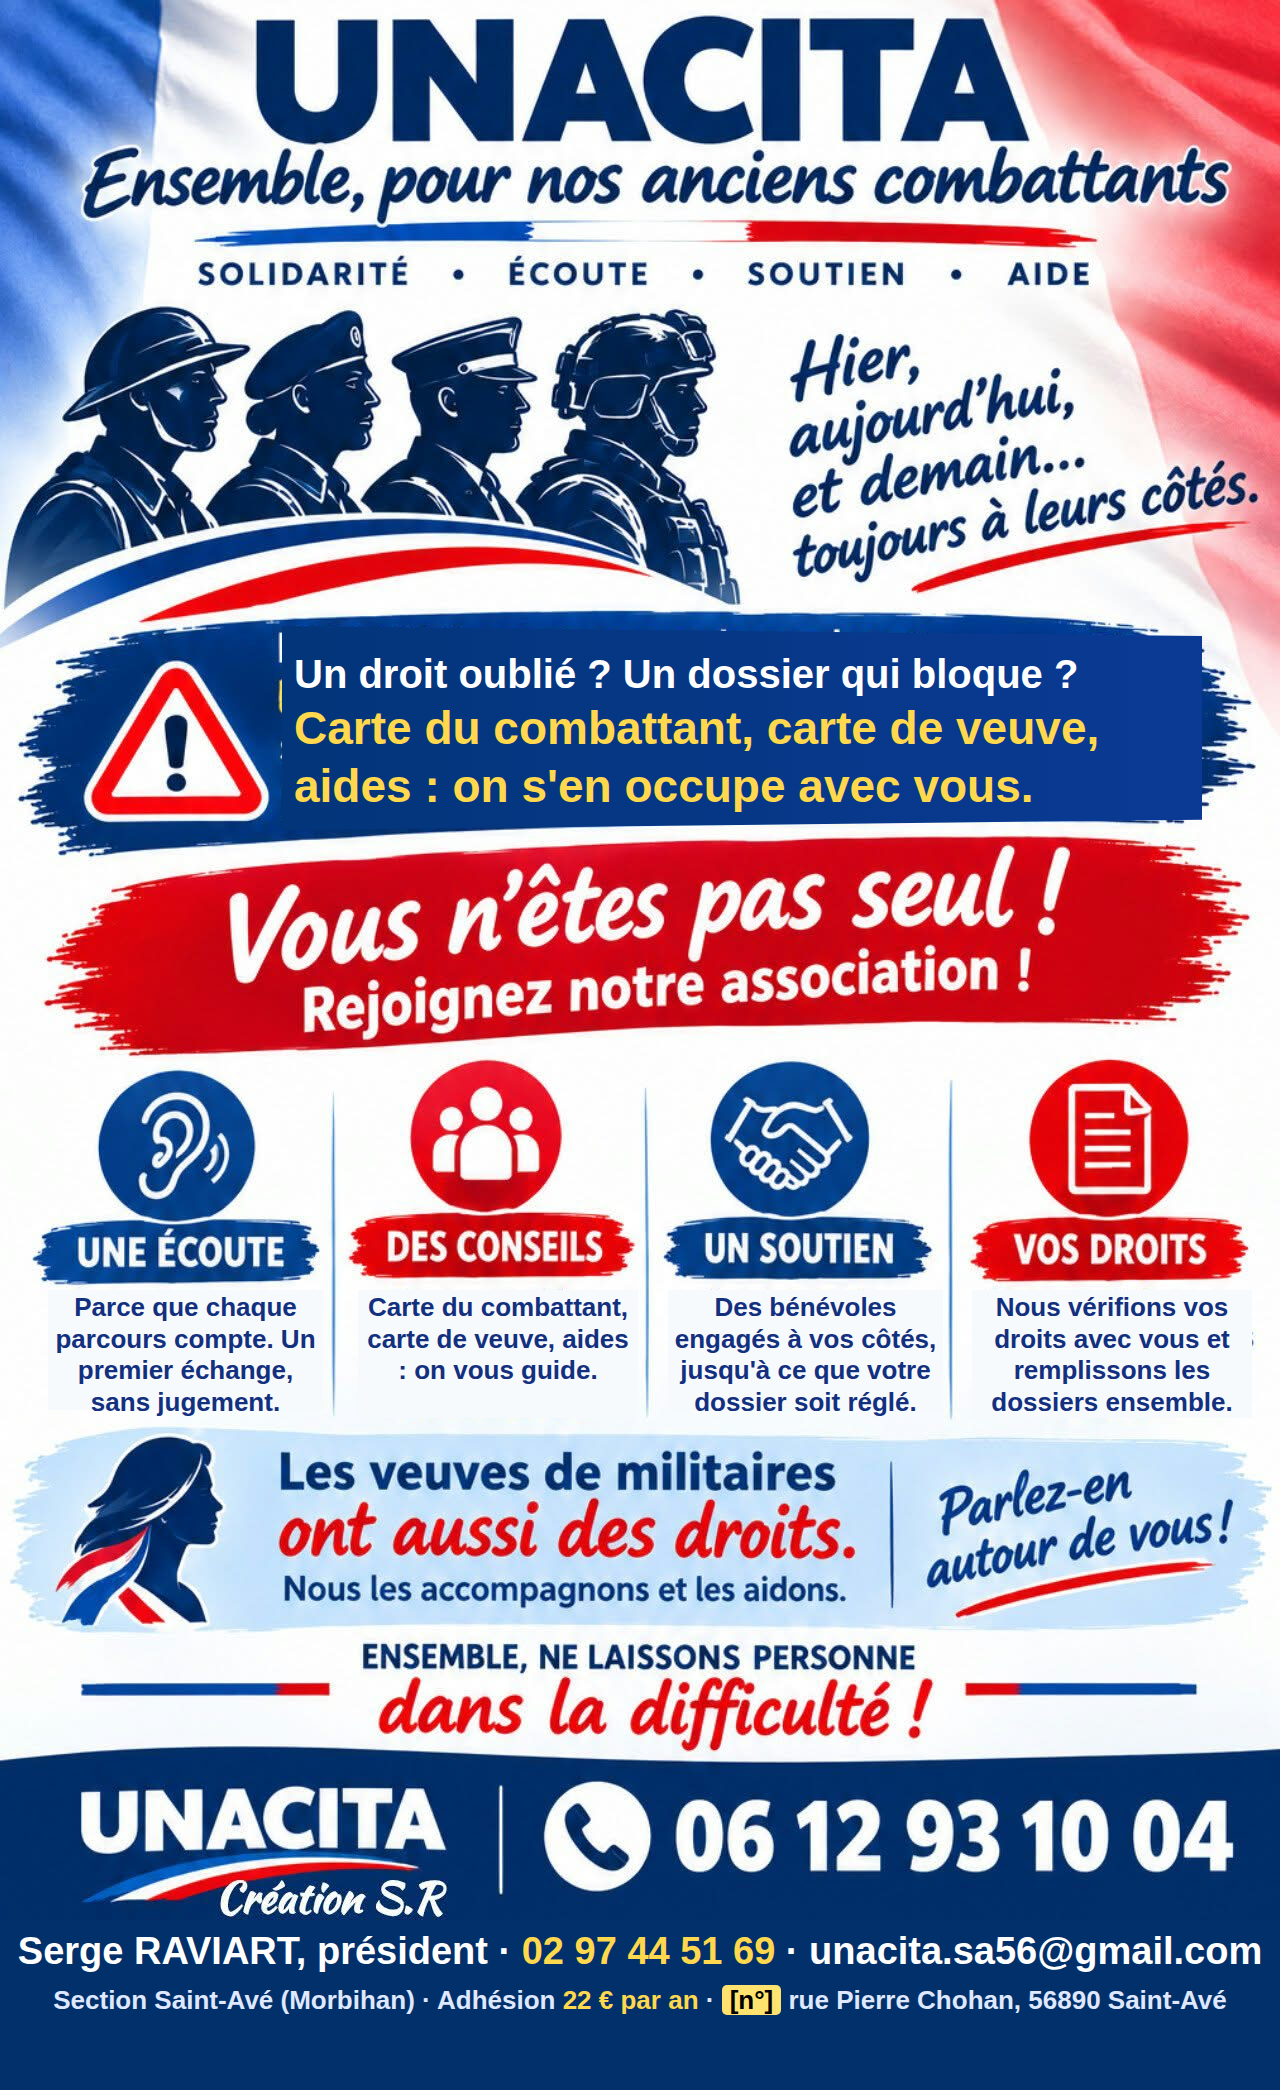
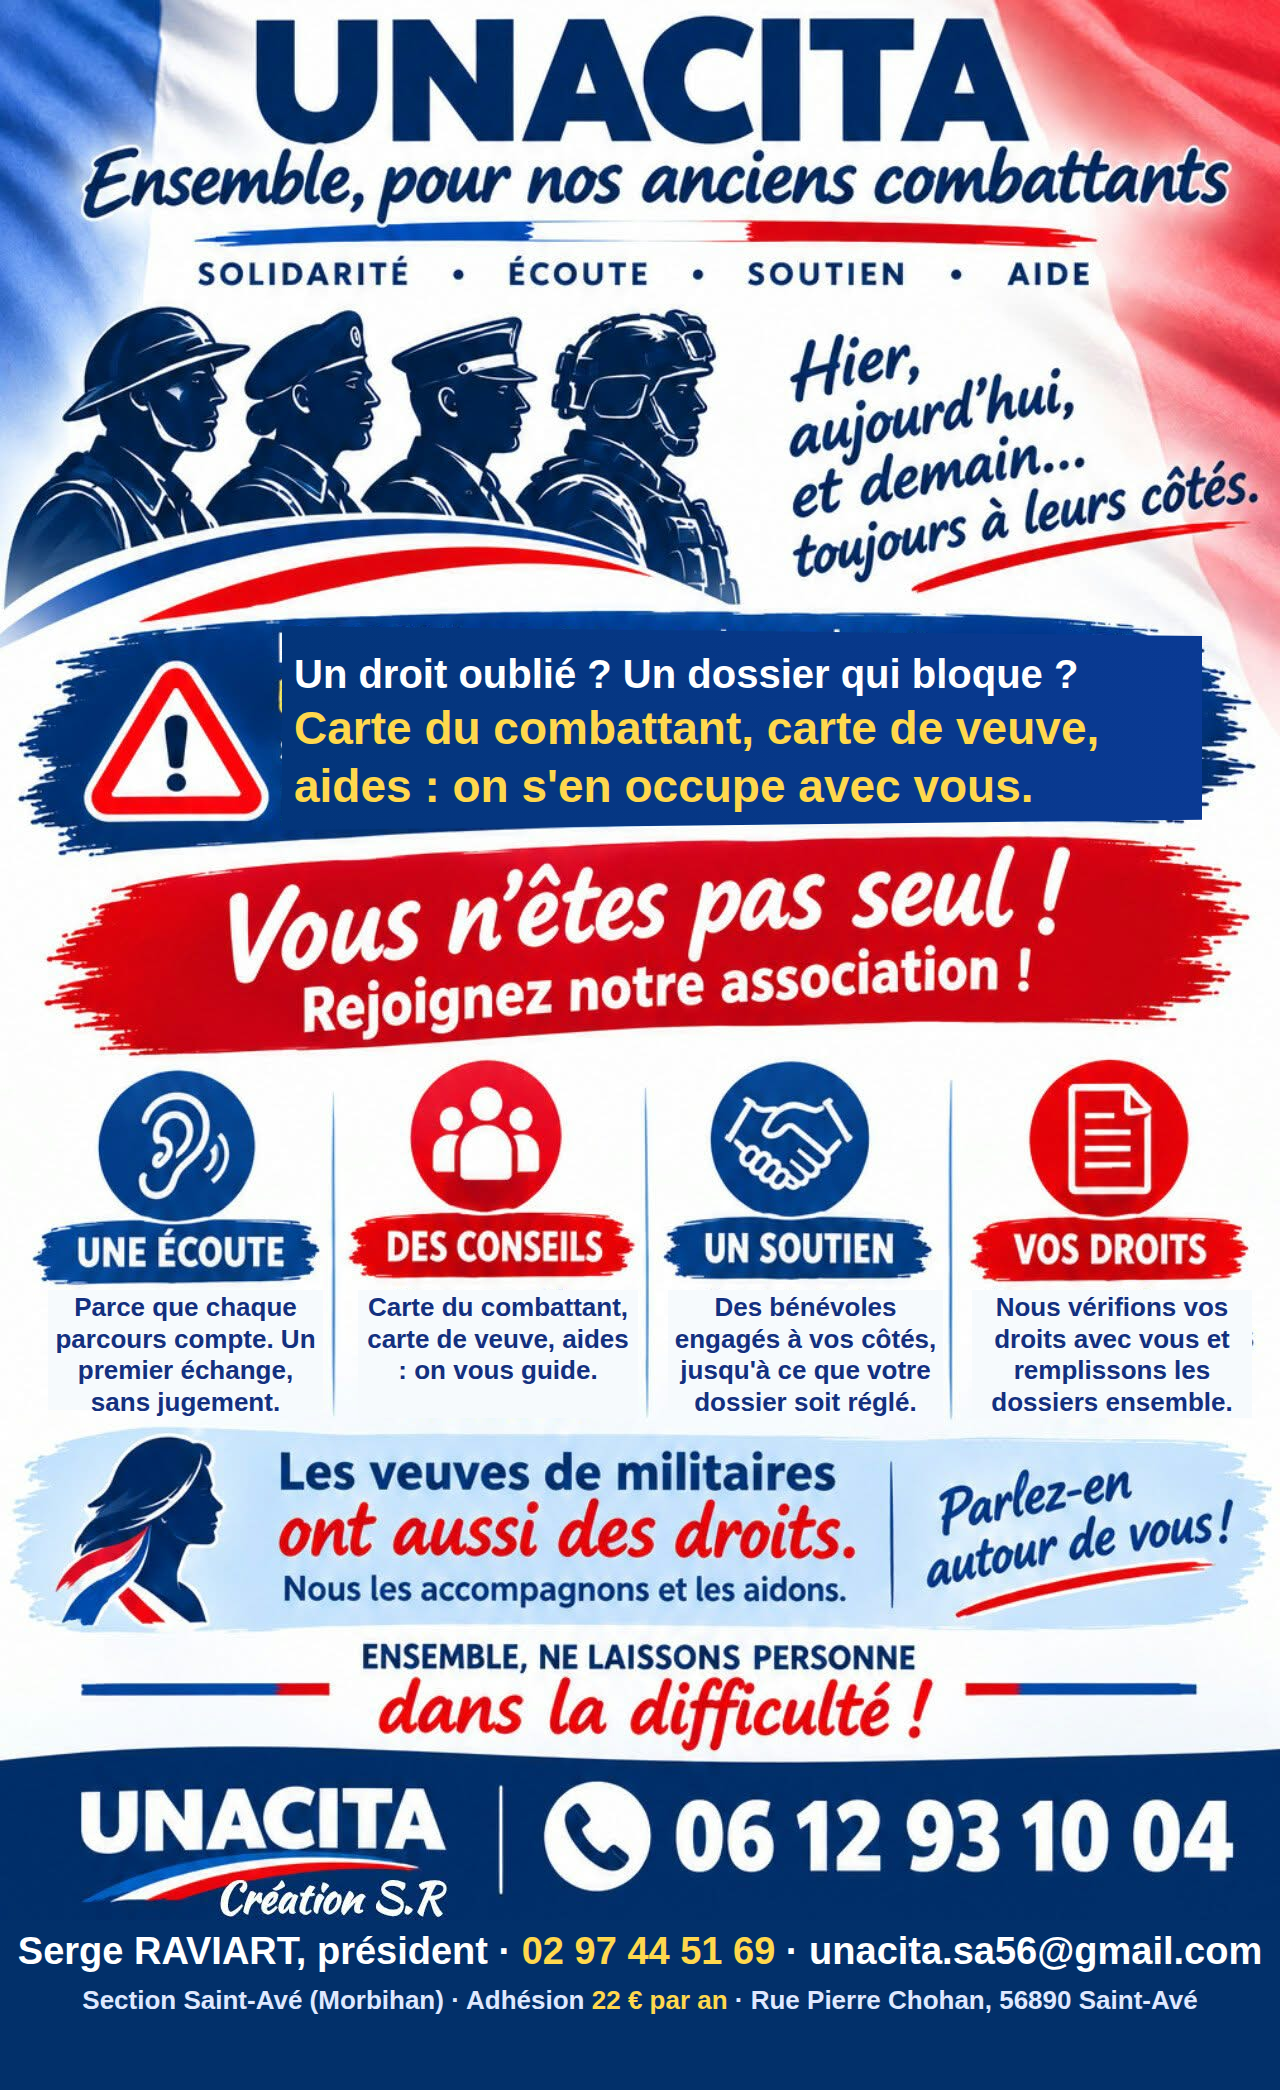
Remove street number placeholder from poster
Claude-Session: https://claude.ai/code/session_017r1K6TkkCQuJas8NGnP9MZ

Changed region(s): [[0.0312, 0.933, 0.9688, 0.9641]]

diff --git a/unacita/affiche-unacita-v3.html b/unacita/affiche-unacita-v3.html
@@ -37,7 +37,7 @@
 
   <div class="contact">
     <div class="a">Serge RAVIART, président · <b>02 97 44 51 69</b> · unacita.sa56@gmail.com</div>
-    <div class="b">Section Saint-Avé (Morbihan) · Adhésion <b style="color:#ffd84d">22 € par an</b> · <span class="todo">[n°]</span> rue Pierre Chohan, 56890 Saint-Avé</div>
+    <div class="b">Section Saint-Avé (Morbihan) · Adhésion <b style="color:#ffd84d">22 € par an</b> · Rue Pierre Chohan, 56890 Saint-Avé</div>
   </div>
 </div>
 </body>

diff --git a/unacita/affiche-unacita-v2.html b/unacita/affiche-unacita-v2.html
@@ -85,7 +85,7 @@
       <b>Adhérer, c'est simple</b><br>
       Cotisation : <b>22 € par an</b><br>
       unacita.sa56@gmail.com<br>
-      <span class="todo">[n°]</span> rue Pierre Chohan, 56890 Saint-Avé<br>
+      Rue Pierre Chohan, 56890 Saint-Avé<br>
       Bulletin d'adhésion sur simple demande
     </div>
   </section>

diff --git a/unacita/analyse-affiche.md b/unacita/analyse-affiche.md
@@ -91,6 +91,6 @@ La version imprimable `affiche-unacita-v2.html` utilise ces textes, avec des cha
 | Formulaires ONaCVG | Les permanences ONaCVG Morbihan : accueil tél. 8h45-12h15, physique sur RDV seulement (Vannes, 02 97 47 88 88) | Mettre ce numéro dans un mémo remis aux adhérents |
 
 ## Reste à confirmer
-1. Numéro de la rue Pierre Chohan.
+1. (Numéro de rue volontairement non affiché.)
 2. L'OPEX est-il accepté ? Les adhérents viennent-ils d'autres communes que Saint-Avé ?
 3. Possibilité de paiement autre que le chèque (virement, espèces en permanence) ?
